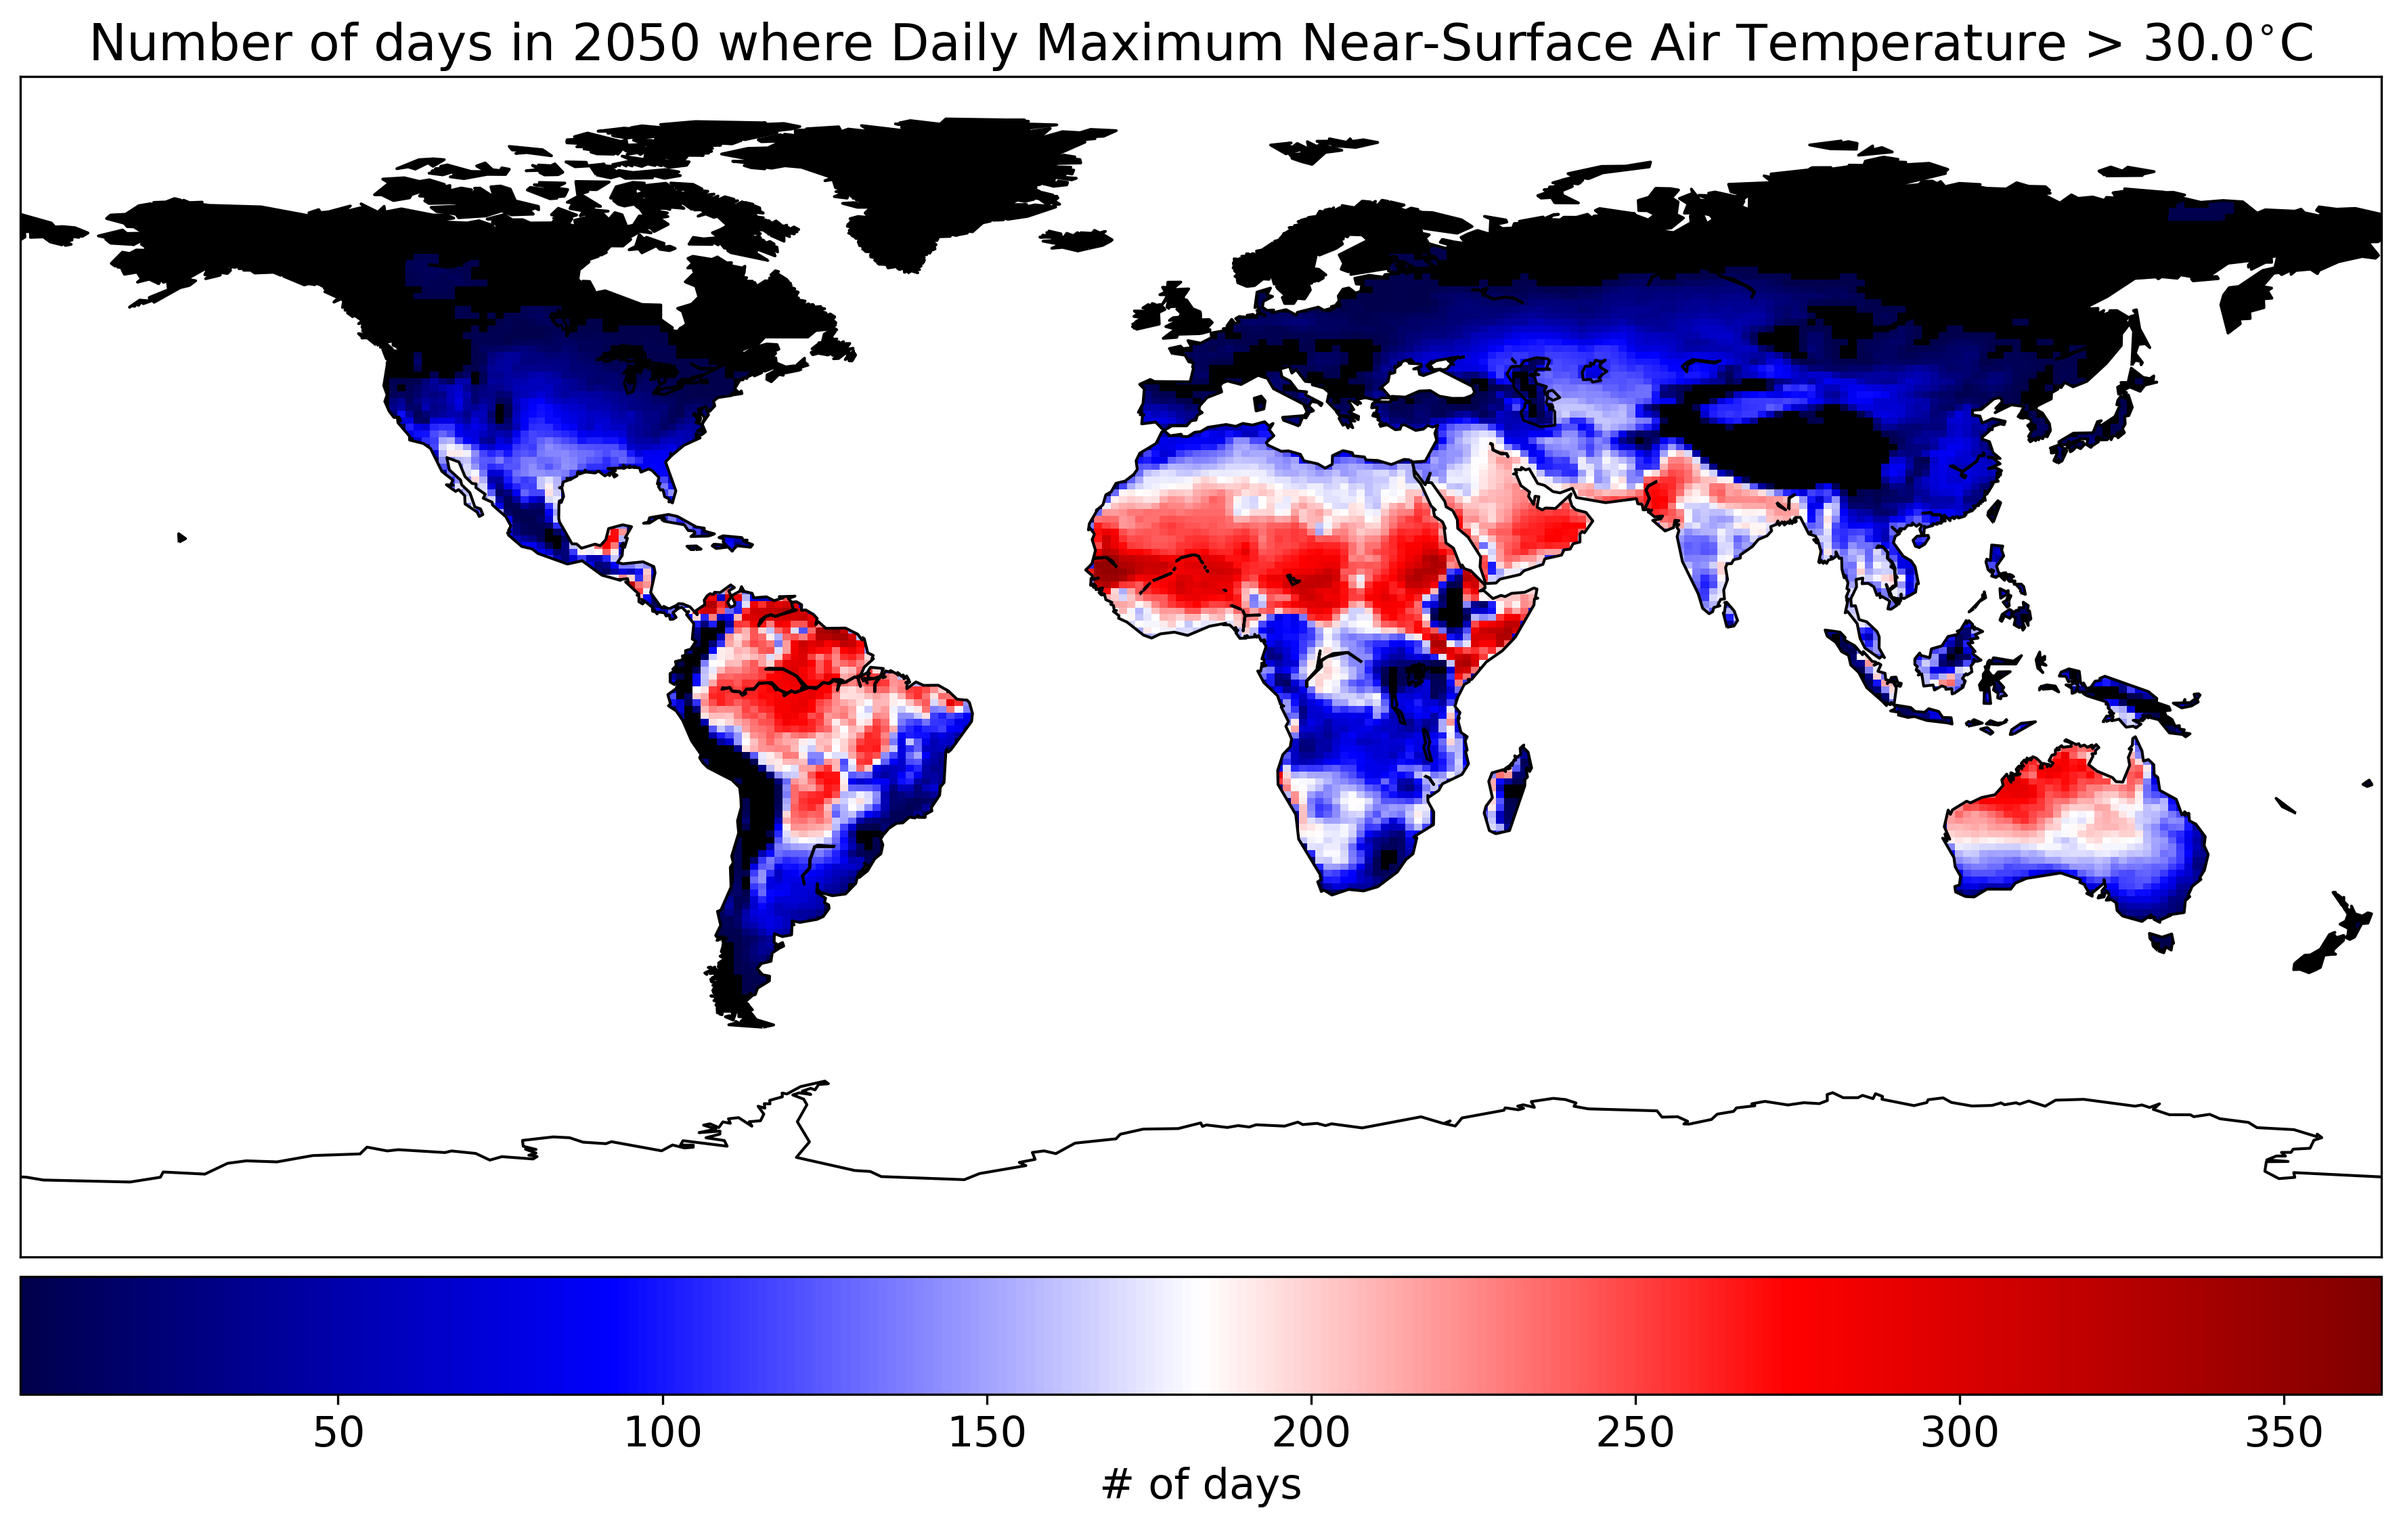
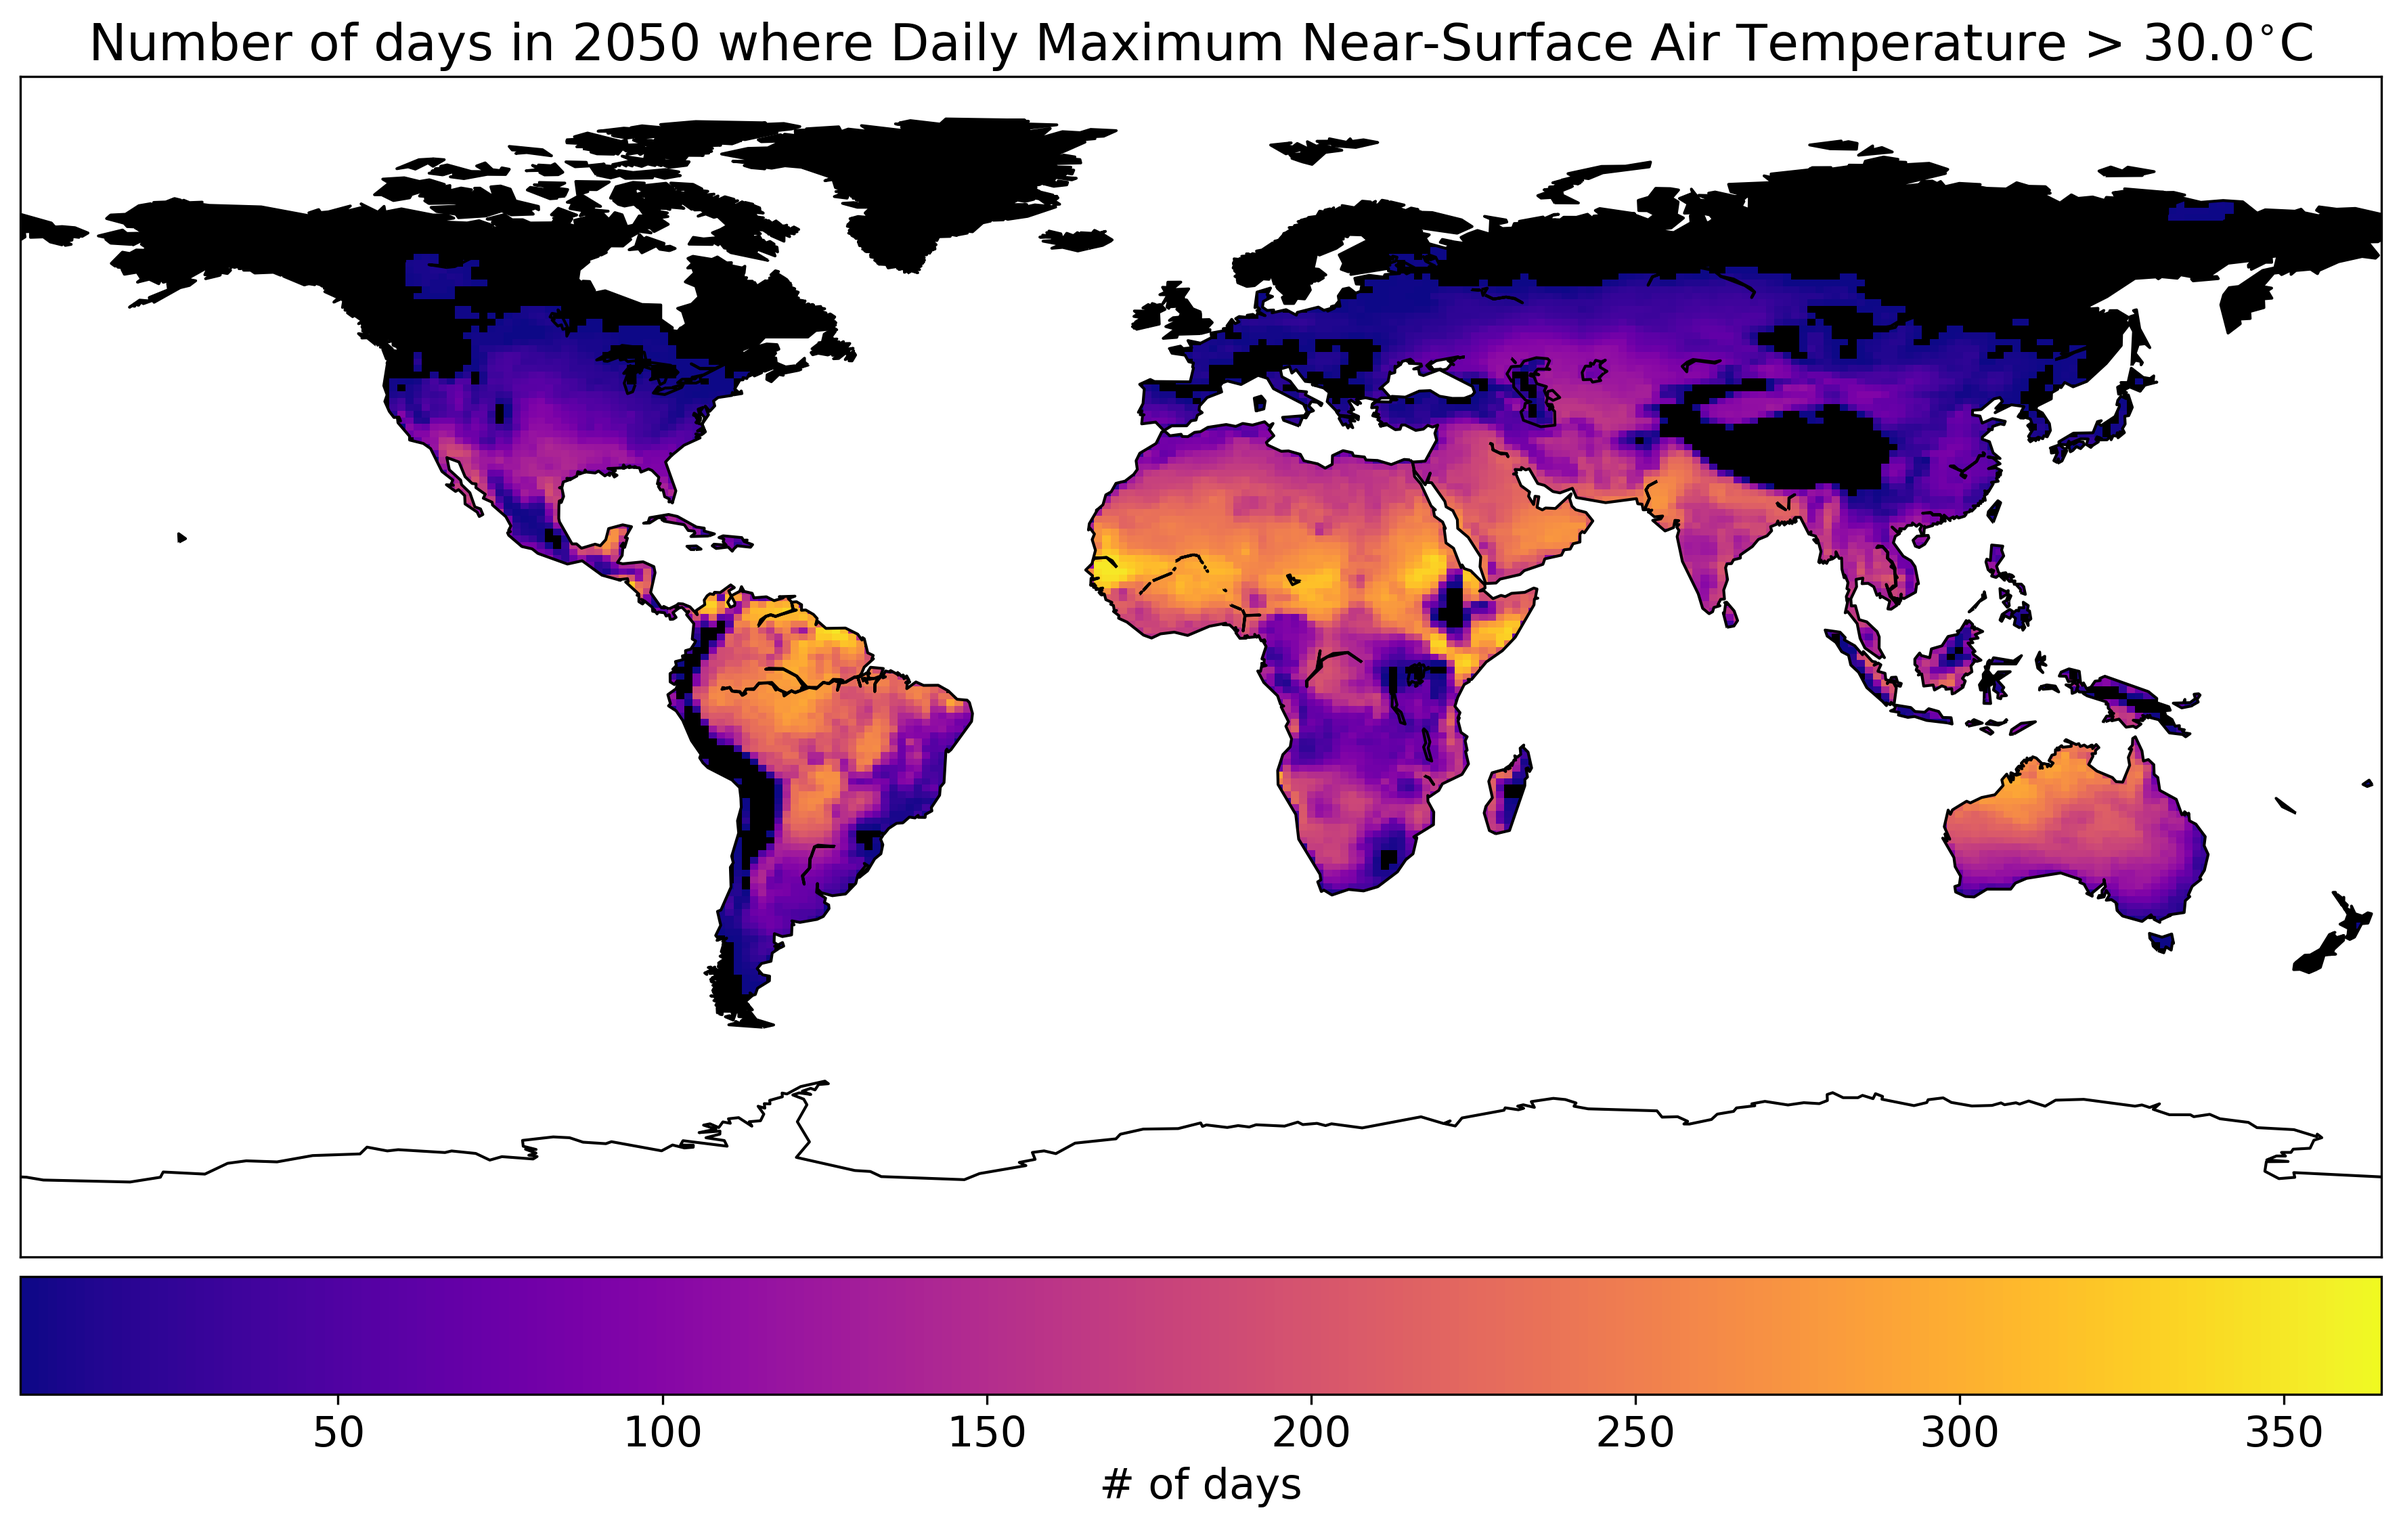
change colourbar

diff --git a/heat_scan/transport/transport.py b/heat_scan/transport/transport.py
@@ -13,6 +13,11 @@ save_path = os.getcwd().replace('\\', '/') + '/'
 # ssp245
 # day
 zstore = 'gs://cmip6/CMIP6/ScenarioMIP/NOAA-GFDL/GFDL-ESM4/ssp245/r1i1p1f1/day/tasmax/gr1/v20180701/'
+# zstore = 'gs://cmip6/CMIP6/ScenarioMIP/NOAA-GFDL/GFDL-ESM4/ssp585/r1i1p1f1/day/tasmax/gr1/v20180701/'
+
+# zstore = 'gs://cmip6/CMIP6/ScenarioMIP/CCCma/CanESM5/ssp245/r1i1p2f1/day/tasmax/gn/v20190429/'
+
+# zstore = 'gs://cmip6/CMIP6/ScenarioMIP/BCC/BCC-CSM2-MR/ssp245/r1i1p1f1/day/tasmax/gn/v20190318/'
 
 ds = pangeo_CMIP_funs.cmip6_via_pangeo(zstore=zstore)
 
@@ -24,7 +29,10 @@ ds = pangeo_CMIP_funs.cmip6_via_pangeo(zstore=zstore)
 # Count of days where variable is over a given threshold
 
 # get data from a given year
+# year = 2100
 year = 2050
+# year = 2015
+
 ds_2015 = ds.sel(time=ds.time.dt.year.isin([year]))
 
 # define threshold

diff --git a/heat_scan/transport/plotting_funs.py b/heat_scan/transport/plotting_funs.py
@@ -82,7 +82,7 @@ def plt_count_over_threshold(ds, threshold, year, save_path):
     fig, ax = plt.subplots(1, figsize=(15, 12))
 
     # set colourbar
-    cmap = matplotlib.cm.seismic
+    cmap = matplotlib.cm.plasma
     # make nan black
     cmap.set_bad('black', 1.)
 
@@ -97,3 +97,5 @@ def plt_count_over_threshold(ds, threshold, year, save_path):
     ax.yaxis.set_visible(False)
 
     plt.savefig(save_path + '/plots/' + 'days_over_' + str(int(threshold - constants.convert_kelvin)) + '_in_' + str(year) + '.png', bbox_inches='tight', dpi=300)
+
+    print('end')
